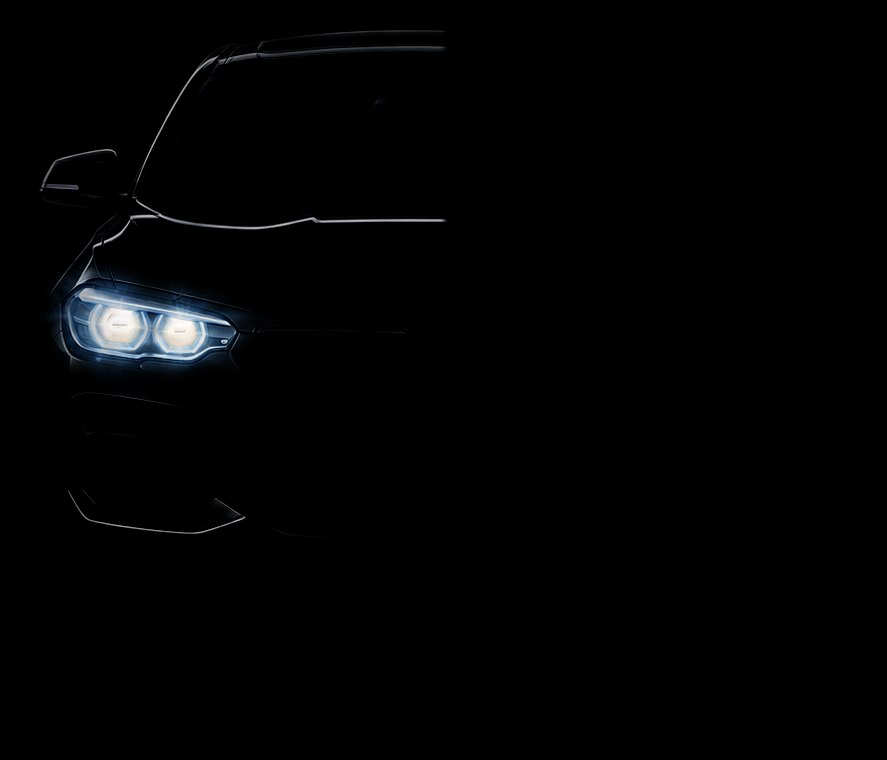
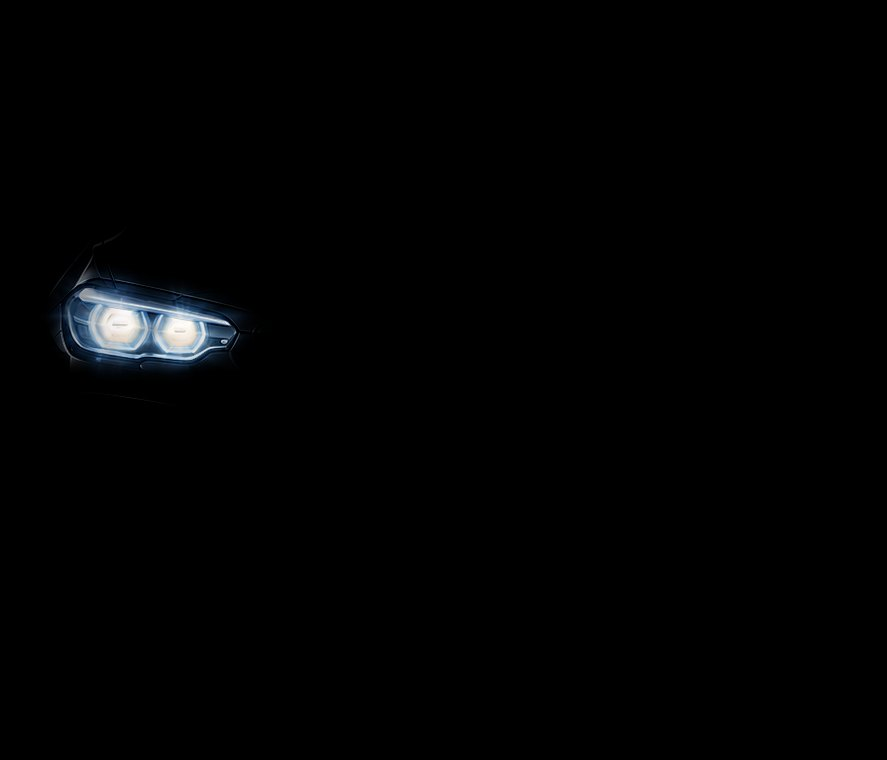
Démo : feux de route sans contour de carrosserie
Claude-Session: https://claude.ai/code/session_01Ne71Qi7SAzvyxrbnibtzm8

diff --git a/index.html b/index.html
@@ -5,7 +5,7 @@
 <h1>Tes feux d'origine,<br>ton light show.</h1>
 <p class="lead">Pilote les feux de ta BMW série F depuis ton iPhone, compose des shows et fais-les danser sur ta musique. Sans modifier le codage.</p>
 <span class="cta big off">Bientôt sur l'App Store</span><div class="soon">iPhone · gratuit</div>
-<div class="demo"><div class="stage"><div class="car" role="img" aria-label="Voiture vue de face"><img class="base" src="assets/car/photo-front-off.jpg?v=3ed0d74f" alt=""><img class="lamp" data-id="f:drl-screenLeft" src="assets/car/photo-front-drl-screenLeft.jpg?v=8b609942" alt="" decoding="async"><img class="lamp" data-id="f:drl-screenRight" src="assets/car/photo-front-drl-screenRight.jpg?v=42eb1d79" alt="" decoding="async"><img class="lamp" data-id="f:low-screenLeft" src="assets/car/photo-front-low-screenLeft.jpg?v=6096d7ca" alt="" decoding="async"><img class="lamp" data-id="f:low-screenRight" src="assets/car/photo-front-low-screenRight.jpg?v=b19cccdc" alt="" decoding="async"><img class="lamp" data-id="f:high-screenLeft" src="assets/car/photo-front-high-screenLeft.jpg?v=1192526e" alt="" decoding="async"><img class="lamp" data-id="f:high-screenRight" src="assets/car/photo-front-high-screenRight.jpg?v=20ed3d81" alt="" decoding="async"><img class="lamp" data-id="f:fog-screenLeft" src="assets/car/photo-front-fog-screenLeft.jpg?v=f4934c1c" alt="" decoding="async"><img class="lamp" data-id="f:fog-screenRight" src="assets/car/photo-front-fog-screenRight.jpg?v=994affe2" alt="" decoding="async"><img class="lamp" data-id="f:indicator-screenLeft" src="assets/car/photo-front-indicator-screenLeft.jpg?v=ac9a9d8d" alt="" decoding="async"><img class="lamp" data-id="f:indicator-screenRight" src="assets/car/photo-front-indicator-screenRight.jpg?v=4b3f4ba7" alt="" decoding="async"><img class="lamp" data-id="f:interior" src="assets/car/photo-front-interior.jpg?v=fc6f959a" alt="" decoding="async"></div><div class="car" role="img" aria-label="Voiture vue de dos"><img class="base" src="assets/car/photo-rear-off.jpg?v=e54122f6" alt=""><img class="lamp" data-id="r:tail-screenLeft" src="assets/car/photo-rear-tail-screenLeft.jpg?v=d9da3cc4" alt="" decoding="async"><img class="lamp" data-id="r:tail-screenRight" src="assets/car/photo-rear-tail-screenRight.jpg?v=f7a3c5bd" alt="" decoding="async"><img class="lamp" data-id="r:indicator-screenLeft" src="assets/car/photo-rear-indicator-screenLeft.jpg?v=0fefcfe9" alt="" decoding="async"><img class="lamp" data-id="r:indicator-screenRight" src="assets/car/photo-rear-indicator-screenRight.jpg?v=7aba8e8f" alt="" decoding="async"><img class="lamp" data-id="r:reverse-screenLeft" src="assets/car/photo-rear-reverse-screenLeft.jpg?v=f5b0b301" alt="" decoding="async"><img class="lamp" data-id="r:reverse-screenRight" src="assets/car/photo-rear-reverse-screenRight.jpg?v=2404eeaf" alt="" decoding="async"><img class="lamp" data-id="r:brake" src="assets/car/photo-rear-brake.jpg?v=983cbe2e" alt="" decoding="async"><img class="lamp" data-id="r:fog" src="assets/car/photo-rear-fog.jpg?v=d857458e" alt="" decoding="async"><img class="lamp" data-id="r:interior" src="assets/car/photo-rear-interior.jpg?v=fd1ac59a" alt="" decoding="async"></div></div><div class="pads"><button class="pbtn" data-l="drl" style="--c:#ffd60a" aria-pressed="false"><span class="pp"><svg viewBox="0 0 32 32" width="26" height="26" fill="none" stroke="currentColor" stroke-width="2.4" stroke-linecap="round" stroke-linejoin="round"><path d="M19 6c5.5 0 9 4.5 9 10s-3.5 10-9 10z" fill="currentColor"/><path d="M14 8.5 9.5 6M14 13 8.5 12M14 19 8.5 20M14 23.5 9.5 26"/></svg></span><span class="pl">Feux de jour</span></button><button class="pbtn" data-l="low" style="--c:#0a84ff" aria-pressed="false"><span class="pp"><svg viewBox="0 0 32 32" width="26" height="26" fill="none" stroke="currentColor" stroke-width="2.4" stroke-linecap="round" stroke-linejoin="round"><path d="M19 6c5.5 0 9 4.5 9 10s-3.5 10-9 10z" fill="currentColor"/><path d="M14 9 5 12M14 14.5 5 17.5M14 20 5 23"/></svg></span><span class="pl">Croisement</span></button><button class="pbtn" data-l="high" style="--c:#0a84ff" aria-pressed="false"><span class="pp"><svg viewBox="0 0 32 32" width="26" height="26" fill="none" stroke="currentColor" stroke-width="2.4" stroke-linecap="round" stroke-linejoin="round"><path d="M19 6c5.5 0 9 4.5 9 10s-3.5 10-9 10z" fill="currentColor"/><path d="M14 10H4M14 16H4M14 22H4"/></svg></span><span class="pl">Route</span></button><button class="pbtn" data-l="fog" style="--c:#ffd60a" aria-pressed="false"><span class="pp"><svg viewBox="0 0 32 32" width="26" height="26" fill="none" stroke="currentColor" stroke-width="2.4" stroke-linecap="round" stroke-linejoin="round"><path d="M19 6c5.5 0 9 4.5 9 10s-3.5 10-9 10z" fill="currentColor"/><path d="M14 10 4 12M14 16 4 18M14 22 4 24"/><path d="M9.5 6q2.5 3 0 6t0 6 0 6 0 6" stroke-width="2"/></svg></span><span class="pl">Antibrouillard</span></button><button class="pbtn" data-l="indL" style="--c:#ff9f0a" aria-pressed="false"><span class="pp"><svg viewBox="0 0 32 32" width="26" height="26" fill="none" stroke="currentColor" stroke-width="2.4" stroke-linecap="round" stroke-linejoin="round"><path d="M4 16 14 6v6h14v8H14v6z" fill="currentColor"/></svg></span><span class="pl">Clignotant G</span></button><button class="pbtn" data-l="indR" style="--c:#ff9f0a" aria-pressed="false"><span class="pp"><span style="display:inline-flex;transform:scaleX(-1)"><svg viewBox="0 0 32 32" width="26" height="26" fill="none" stroke="currentColor" stroke-width="2.4" stroke-linecap="round" stroke-linejoin="round"><path d="M4 16 14 6v6h14v8H14v6z" fill="currentColor"/></svg></span></span><span class="pl">Clignotant D</span></button><button class="pbtn" data-l="hazard" style="--c:#ff9f0a" aria-pressed="false"><span class="pp"><svg viewBox="0 0 32 32" width="26" height="26" fill="none" stroke="currentColor" stroke-width="2.4" stroke-linecap="round" stroke-linejoin="round"><path d="M16 3.5 29 27H3z"/><path d="M16 12.5 22.2 23H9.8z"/></svg></span><span class="pl">Warning</span></button><button class="pbtn" data-l="tail" style="--c:#ff453a" aria-pressed="false"><span class="pp"><svg viewBox="0 0 32 32" width="26" height="26" fill="none" stroke="currentColor" stroke-width="2.4" stroke-linecap="round" stroke-linejoin="round"><rect x="4" y="10" width="24" height="12" rx="4"/><rect x="8" y="14" width="16" height="4" rx="2" fill="currentColor"/></svg></span><span class="pl">Feux arrière</span></button><button class="pbtn" data-l="brake" style="--c:#ff453a" aria-pressed="false"><span class="pp"><svg viewBox="0 0 32 32" width="26" height="26" fill="none" stroke="currentColor" stroke-width="2.4" stroke-linecap="round" stroke-linejoin="round"><rect x="4" y="11" width="24" height="12" rx="4" fill="currentColor"/><path d="M9 6.5 7.5 4M16 6V3M23 6.5 24.5 4"/></svg></span><span class="pl">Stop</span></button><button class="pbtn" data-l="reverse" style="--c:#aeaeb2" aria-pressed="false"><span class="pp"><svg viewBox="0 0 32 32" width="26" height="26" fill="none" stroke="currentColor" stroke-width="2.4" stroke-linecap="round" stroke-linejoin="round"><rect x="5" y="5" width="22" height="22" rx="6"/><path d="M12.5 22.5v-13h5a3.8 3.8 0 0 1 0 7.6h-5M17.5 17l3.5 5.5" stroke-width="2.6"/></svg></span><span class="pl">Recul</span></button><button class="pbtn" data-l="inside" style="--c:#bfd9ff" aria-pressed="false"><span class="pp"><svg viewBox="0 0 32 32" width="26" height="26" fill="none" stroke="currentColor" stroke-width="2.4" stroke-linecap="round" stroke-linejoin="round"><path d="M5 9h22"/><path d="M9 9.5h14a7 7 0 0 1-14 0z" fill="currentColor"/><path d="M16 21v5M10 19.5l-2.5 4M22 19.5l2.5 4"/></svg></span><span class="pl">Intérieur</span></button><div class="showrow"><button class="pbtn showbtn" data-l="show" style="--c:#bf5af2" aria-pressed="false"><span class="pp"><svg viewBox="0 0 32 32" width="22" height="22" fill="none" stroke="currentColor" stroke-width="2.4" stroke-linecap="round" stroke-linejoin="round"><path d="M3 16h6l3-7 4.5 15 3.5-10 2 2h7"/></svg></span><span class="pl">Lancer un show</span></button></div></div><div class="hint">Touche une pastille : les feux s'allument comme dans l'app.</div></div></div></div>
+<div class="demo"><div class="stage"><div class="car" role="img" aria-label="Voiture vue de face"><img class="base" src="assets/car/photo-front-off.jpg?v=3ed0d74f" alt=""><img class="lamp" data-id="f:drl-screenLeft" src="assets/car/photo-front-drl-screenLeft.jpg?v=8b609942" alt="" decoding="async"><img class="lamp" data-id="f:drl-screenRight" src="assets/car/photo-front-drl-screenRight.jpg?v=42eb1d79" alt="" decoding="async"><img class="lamp" data-id="f:low-screenLeft" src="assets/car/photo-front-low-screenLeft.jpg?v=6096d7ca" alt="" decoding="async"><img class="lamp" data-id="f:low-screenRight" src="assets/car/photo-front-low-screenRight.jpg?v=b19cccdc" alt="" decoding="async"><img class="lamp" data-id="f:high-screenLeft" src="assets/car/photo-front-high-screenLeft.jpg?v=daf786b5" alt="" decoding="async"><img class="lamp" data-id="f:high-screenRight" src="assets/car/photo-front-high-screenRight.jpg?v=22d8e6aa" alt="" decoding="async"><img class="lamp" data-id="f:fog-screenLeft" src="assets/car/photo-front-fog-screenLeft.jpg?v=f4934c1c" alt="" decoding="async"><img class="lamp" data-id="f:fog-screenRight" src="assets/car/photo-front-fog-screenRight.jpg?v=994affe2" alt="" decoding="async"><img class="lamp" data-id="f:indicator-screenLeft" src="assets/car/photo-front-indicator-screenLeft.jpg?v=ac9a9d8d" alt="" decoding="async"><img class="lamp" data-id="f:indicator-screenRight" src="assets/car/photo-front-indicator-screenRight.jpg?v=4b3f4ba7" alt="" decoding="async"><img class="lamp" data-id="f:interior" src="assets/car/photo-front-interior.jpg?v=fc6f959a" alt="" decoding="async"></div><div class="car" role="img" aria-label="Voiture vue de dos"><img class="base" src="assets/car/photo-rear-off.jpg?v=e54122f6" alt=""><img class="lamp" data-id="r:tail-screenLeft" src="assets/car/photo-rear-tail-screenLeft.jpg?v=d9da3cc4" alt="" decoding="async"><img class="lamp" data-id="r:tail-screenRight" src="assets/car/photo-rear-tail-screenRight.jpg?v=f7a3c5bd" alt="" decoding="async"><img class="lamp" data-id="r:indicator-screenLeft" src="assets/car/photo-rear-indicator-screenLeft.jpg?v=0fefcfe9" alt="" decoding="async"><img class="lamp" data-id="r:indicator-screenRight" src="assets/car/photo-rear-indicator-screenRight.jpg?v=7aba8e8f" alt="" decoding="async"><img class="lamp" data-id="r:reverse-screenLeft" src="assets/car/photo-rear-reverse-screenLeft.jpg?v=f5b0b301" alt="" decoding="async"><img class="lamp" data-id="r:reverse-screenRight" src="assets/car/photo-rear-reverse-screenRight.jpg?v=2404eeaf" alt="" decoding="async"><img class="lamp" data-id="r:brake" src="assets/car/photo-rear-brake.jpg?v=983cbe2e" alt="" decoding="async"><img class="lamp" data-id="r:fog" src="assets/car/photo-rear-fog.jpg?v=d857458e" alt="" decoding="async"><img class="lamp" data-id="r:interior" src="assets/car/photo-rear-interior.jpg?v=fd1ac59a" alt="" decoding="async"></div></div><div class="pads"><button class="pbtn" data-l="drl" style="--c:#ffd60a" aria-pressed="false"><span class="pp"><svg viewBox="0 0 32 32" width="26" height="26" fill="none" stroke="currentColor" stroke-width="2.4" stroke-linecap="round" stroke-linejoin="round"><path d="M19 6c5.5 0 9 4.5 9 10s-3.5 10-9 10z" fill="currentColor"/><path d="M14 8.5 9.5 6M14 13 8.5 12M14 19 8.5 20M14 23.5 9.5 26"/></svg></span><span class="pl">Feux de jour</span></button><button class="pbtn" data-l="low" style="--c:#0a84ff" aria-pressed="false"><span class="pp"><svg viewBox="0 0 32 32" width="26" height="26" fill="none" stroke="currentColor" stroke-width="2.4" stroke-linecap="round" stroke-linejoin="round"><path d="M19 6c5.5 0 9 4.5 9 10s-3.5 10-9 10z" fill="currentColor"/><path d="M14 9 5 12M14 14.5 5 17.5M14 20 5 23"/></svg></span><span class="pl">Croisement</span></button><button class="pbtn" data-l="high" style="--c:#0a84ff" aria-pressed="false"><span class="pp"><svg viewBox="0 0 32 32" width="26" height="26" fill="none" stroke="currentColor" stroke-width="2.4" stroke-linecap="round" stroke-linejoin="round"><path d="M19 6c5.5 0 9 4.5 9 10s-3.5 10-9 10z" fill="currentColor"/><path d="M14 10H4M14 16H4M14 22H4"/></svg></span><span class="pl">Route</span></button><button class="pbtn" data-l="fog" style="--c:#ffd60a" aria-pressed="false"><span class="pp"><svg viewBox="0 0 32 32" width="26" height="26" fill="none" stroke="currentColor" stroke-width="2.4" stroke-linecap="round" stroke-linejoin="round"><path d="M19 6c5.5 0 9 4.5 9 10s-3.5 10-9 10z" fill="currentColor"/><path d="M14 10 4 12M14 16 4 18M14 22 4 24"/><path d="M9.5 6q2.5 3 0 6t0 6 0 6 0 6" stroke-width="2"/></svg></span><span class="pl">Antibrouillard</span></button><button class="pbtn" data-l="indL" style="--c:#ff9f0a" aria-pressed="false"><span class="pp"><svg viewBox="0 0 32 32" width="26" height="26" fill="none" stroke="currentColor" stroke-width="2.4" stroke-linecap="round" stroke-linejoin="round"><path d="M4 16 14 6v6h14v8H14v6z" fill="currentColor"/></svg></span><span class="pl">Clignotant G</span></button><button class="pbtn" data-l="indR" style="--c:#ff9f0a" aria-pressed="false"><span class="pp"><span style="display:inline-flex;transform:scaleX(-1)"><svg viewBox="0 0 32 32" width="26" height="26" fill="none" stroke="currentColor" stroke-width="2.4" stroke-linecap="round" stroke-linejoin="round"><path d="M4 16 14 6v6h14v8H14v6z" fill="currentColor"/></svg></span></span><span class="pl">Clignotant D</span></button><button class="pbtn" data-l="hazard" style="--c:#ff9f0a" aria-pressed="false"><span class="pp"><svg viewBox="0 0 32 32" width="26" height="26" fill="none" stroke="currentColor" stroke-width="2.4" stroke-linecap="round" stroke-linejoin="round"><path d="M16 3.5 29 27H3z"/><path d="M16 12.5 22.2 23H9.8z"/></svg></span><span class="pl">Warning</span></button><button class="pbtn" data-l="tail" style="--c:#ff453a" aria-pressed="false"><span class="pp"><svg viewBox="0 0 32 32" width="26" height="26" fill="none" stroke="currentColor" stroke-width="2.4" stroke-linecap="round" stroke-linejoin="round"><rect x="4" y="10" width="24" height="12" rx="4"/><rect x="8" y="14" width="16" height="4" rx="2" fill="currentColor"/></svg></span><span class="pl">Feux arrière</span></button><button class="pbtn" data-l="brake" style="--c:#ff453a" aria-pressed="false"><span class="pp"><svg viewBox="0 0 32 32" width="26" height="26" fill="none" stroke="currentColor" stroke-width="2.4" stroke-linecap="round" stroke-linejoin="round"><rect x="4" y="11" width="24" height="12" rx="4" fill="currentColor"/><path d="M9 6.5 7.5 4M16 6V3M23 6.5 24.5 4"/></svg></span><span class="pl">Stop</span></button><button class="pbtn" data-l="reverse" style="--c:#aeaeb2" aria-pressed="false"><span class="pp"><svg viewBox="0 0 32 32" width="26" height="26" fill="none" stroke="currentColor" stroke-width="2.4" stroke-linecap="round" stroke-linejoin="round"><rect x="5" y="5" width="22" height="22" rx="6"/><path d="M12.5 22.5v-13h5a3.8 3.8 0 0 1 0 7.6h-5M17.5 17l3.5 5.5" stroke-width="2.6"/></svg></span><span class="pl">Recul</span></button><button class="pbtn" data-l="inside" style="--c:#bfd9ff" aria-pressed="false"><span class="pp"><svg viewBox="0 0 32 32" width="26" height="26" fill="none" stroke="currentColor" stroke-width="2.4" stroke-linecap="round" stroke-linejoin="round"><path d="M5 9h22"/><path d="M9 9.5h14a7 7 0 0 1-14 0z" fill="currentColor"/><path d="M16 21v5M10 19.5l-2.5 4M22 19.5l2.5 4"/></svg></span><span class="pl">Intérieur</span></button><div class="showrow"><button class="pbtn showbtn" data-l="show" style="--c:#bf5af2" aria-pressed="false"><span class="pp"><svg viewBox="0 0 32 32" width="22" height="22" fill="none" stroke="currentColor" stroke-width="2.4" stroke-linecap="round" stroke-linejoin="round"><path d="M3 16h6l3-7 4.5 15 3.5-10 2 2h7"/></svg></span><span class="pl">Lancer un show</span></button></div></div><div class="hint">Touche une pastille : les feux s'allument comme dans l'app.</div></div></div></div>
 <section><div class="wrap"><h2>Tes feux, ton style.</h2><p class="sub">Pensée pour les passionnés, faite pour briller la nuit.</p><div class="features"><div class="feat"><div class="past" style="width:60px;height:60px;color:#0a84ff;background:radial-gradient(120% 120% at 30% 15%, #0a84ff66, #1c1c1e 75%);box-shadow:0 0 0 1.5px #0a84ffb3 inset,0 6px 22px -4px #0a84ff99"><div style="display:flex;filter:drop-shadow(0 0 6px #0a84ff)"><svg viewBox="0 0 32 32" width="30" height="30" fill="none" stroke="#0a84ff" stroke-width="2.4" stroke-linecap="round" stroke-linejoin="round"><path d="M19 6c5.5 0 9 4.5 9 10s-3.5 10-9 10z" fill="#0a84ff"/><path d="M14 9 5 12M14 14.5 5 17.5M14 20 5 23"/></svg></div></div><h3>Tes feux, en direct</h3><p>Croisement, route, clignotants, stop, recul, et même l'éclairage intérieur. Touche une pastille, le feu s'allume. Mode « Maintenir » à plusieurs doigts.</p></div><div class="feat"><div class="past" style="width:60px;height:60px;color:#ff375f;background:radial-gradient(120% 120% at 30% 15%, #ff375f66, #1c1c1e 75%);box-shadow:0 0 0 1.5px #ff375fb3 inset,0 6px 22px -4px #ff375f99"><div style="display:flex;filter:drop-shadow(0 0 6px #ff375f)"><svg viewBox="0 0 32 32" width="28" height="28" stroke="#ff375f" stroke-width="2.6" stroke-linecap="round"><path d="M4 13v6M9 9v14M14 5v22M19 10v12M24 7v18M28.5 13v6"/></svg></div></div><h3>Suit la musique</h3><p>L'iPhone écoute le rythme au micro et fait danser tes feux sur chaque temps fort. Rien n'est enregistré.</p></div><div class="feat"><div class="past" style="width:60px;height:60px;color:#ff9f0a;background:radial-gradient(120% 120% at 30% 15%, #ff9f0a66, #1c1c1e 75%);box-shadow:0 0 0 1.5px #ff9f0ab3 inset,0 6px 22px -4px #ff9f0a99"><div style="display:flex;filter:drop-shadow(0 0 6px #ff9f0a)"><svg viewBox="0 0 32 32" width="30" height="30" fill="none" stroke="#ff9f0a" stroke-width="2.4" stroke-linecap="round" stroke-linejoin="round"><path d="M3 16h6l3-7 4.5 15 3.5-10 2 2h7"/></svg></div></div><h3>13 shows prêts</h3><p>Pulsation, double flash, gyrophare, vague, bienvenue… Lance un show en un appui.</p></div><div class="feat"><div class="past" style="width:60px;height:60px;color:#bf5af2;background:radial-gradient(120% 120% at 30% 15%, #bf5af266, #1c1c1e 75%);box-shadow:0 0 0 1.5px #bf5af2b3 inset,0 6px 22px -4px #bf5af299"><div style="display:flex;filter:drop-shadow(0 0 6px #bf5af2)"><svg viewBox="0 0 32 32" width="28" height="28" fill="#bf5af2"><rect x="4" y="5" width="6" height="6" rx="1.5"/><rect x="13" y="5" width="6" height="6" rx="1.5" opacity=.35/><rect x="22" y="5" width="6" height="6" rx="1.5"/><rect x="4" y="14" width="6" height="6" rx="1.5" opacity=.35/><rect x="13" y="14" width="6" height="6" rx="1.5"/><rect x="22" y="14" width="6" height="6" rx="1.5" opacity=.35/><rect x="4" y="23" width="6" height="6" rx="1.5"/><rect x="13" y="23" width="6" height="6" rx="1.5" opacity=.35/><rect x="22" y="23" width="6" height="6" rx="1.5"/></svg></div></div><h3>Crée tes shows</h3><p>Une grille feux × pas pour composer tes séquences, ou enregistre en direct ce que tu joues.</p></div><div class="feat"><div class="past" style="width:60px;height:60px;color:#ffd60a;background:radial-gradient(120% 120% at 30% 15%, #ffd60a66, #1c1c1e 75%);box-shadow:0 0 0 1.5px #ffd60ab3 inset,0 6px 22px -4px #ffd60a99"><div style="display:flex;filter:drop-shadow(0 0 6px #ffd60a)"><svg viewBox="0 0 32 32" width="30" height="30" fill="none" stroke="#ffd60a" stroke-width="2.4" stroke-linecap="round" stroke-linejoin="round"><path d="M19 6c5.5 0 9 4.5 9 10s-3.5 10-9 10z" fill="#ffd60a"/><path d="M14 8.5 9.5 6M14 13 8.5 12M14 19 8.5 20M14 23.5 9.5 26"/></svg></div></div><h3>Ta voiture à l'écran</h3><p>Vue avant et arrière réalistes qui s'allument feu par feu, en même temps que la vraie.</p></div><div class="feat"><div class="past" style="width:60px;height:60px;color:#30d158;background:radial-gradient(120% 120% at 30% 15%, #30d15866, #1c1c1e 75%);box-shadow:0 0 0 1.5px #30d158b3 inset,0 6px 22px -4px #30d15899"><div style="display:flex;filter:drop-shadow(0 0 6px #30d158)"><svg viewBox="0 0 32 32" width="28" height="28" fill="none" stroke="#30d158" stroke-width="2.4" stroke-linecap="round" stroke-linejoin="round"><path d="M16 3 27 7v8c0 7-5 12-11 14C10 27 5 22 5 15V7z"/><path d="m11 16 4 4 7-8"/></svg></div></div><h3>Sans risque</h3><p>Aucun codage modifié. Commandes temporaires seulement : la voiture reprend la main à la fin d'un show.</p></div></div></div></section>
 <section class="band"><div class="wrap"><h2>Pensée pour la nuit.</h2><p class="sub">Les écrans de l'app.</p>
 <div class="shots"><img src="assets/img/04-eclairage.webp?v=7e8026c5" alt="Écran Éclairage de l&#x27;app, vue avant" width="488" height="1055" loading="lazy"><img src="assets/img/07-shows.webp?v=ce0a8693" alt="Écran Shows et ses préréglages" width="488" height="1055" loading="lazy"><img src="assets/img/08-lecteur-musique.webp?v=91d63923" alt="Lecteur de show qui suit la musique" width="488" height="1055" loading="lazy"><img src="assets/img/04c-arriere-stop-recul.webp?v=60026568" alt="Écran Éclairage, vue arrière" width="488" height="1055" loading="lazy"></div></div></section>
